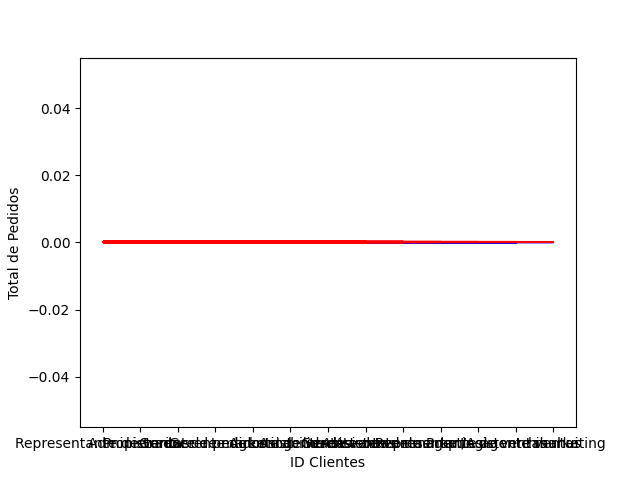
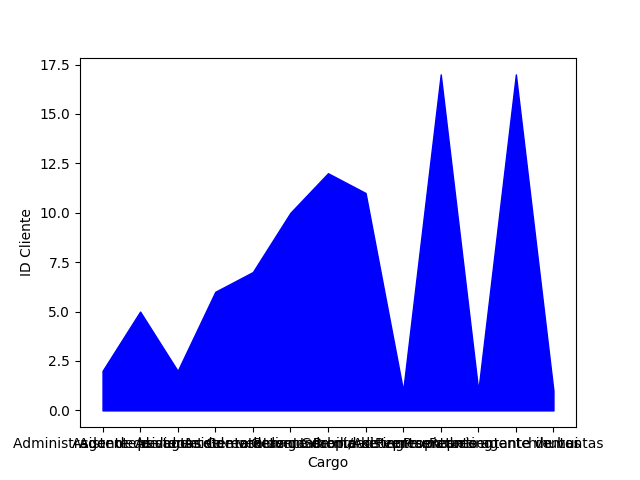
done!

diff --git a/controller/db_controller.py b/controller/db_controller.py
@@ -90,18 +90,21 @@ class Db_controller:
         clientes = []
         cargos = []
         rs = self.database.get_client_cargos()
+        rs2 = self.database.count_clientes_byCargo()
         for c in rs:
-            clientes.append(c[0])
-            p = self.database.get_count_of_pedidos_by_client(c)
-            cargos.append(p)
+            if c[0] not in cargos:
+                cargos.append(c[0])
+        cargos.sort()
+        for x in rs2:
+            clientes.append(x[1])
 
         if tipo == "Plot":
-            pp.plot(clientes, cargos, color="red")
+            pp.plot(cargos, clientes, color="red")
         elif tipo == "Scatter":
-            pp.scatter(clientes, cargos, color="green")
+            pp.scatter(cargos, clientes, color="green")
         elif tipo == "Fill-between":
-            pp.fill_between(clientes, cargos, color="blue")
+            pp.fill_between(cargos, clientes, color="blue")
 
-        pp.xlabel("ID Clientes")
-        pp.ylabel("Cargo")
+        pp.xlabel("Cargo")
+        pp.ylabel("ID Cliente")
         pp.savefig("../graph/client-graph2.png")

diff --git a/db/db_logic.py b/db/db_logic.py
@@ -205,3 +205,11 @@ class Db_Logic:
         sql = "select cargo from cliente "
         rs = cursor.execute(sql)
         return rs.fetchall()
+
+    def count_clientes_byCargo(self):
+        con = self.abrir()
+        cursor = con.cursor()
+        sql = "SELECT cargo, count(cargo) from cliente group by cargo"
+        rs = cursor.execute(sql)
+        return rs.fetchall()
+
